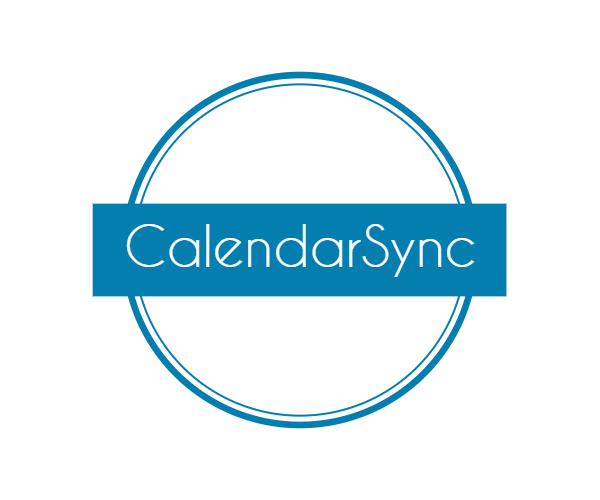
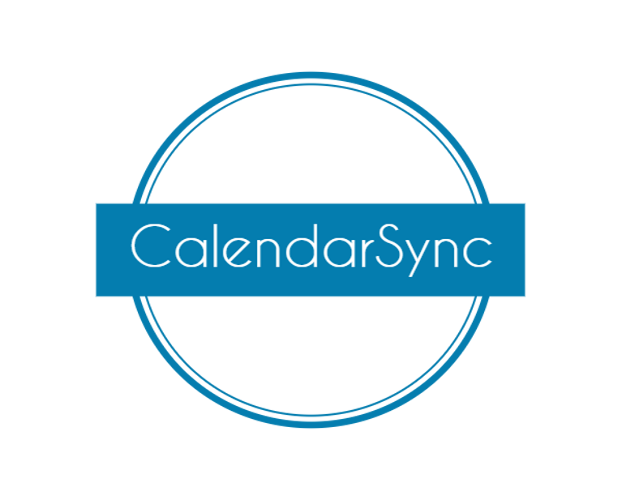
Decreasing Header Image Size

diff --git a/README.md b/README.md
@@ -1,4 +1,4 @@
-![CalendarSync Logo](https://github.com/chedster/chedster.github.io/blob/master/assets/images/calendarSync.png)
+![CalendarSync Logo](https://github.com/chedster/CalendarSync/blob/master/icon.png)
 ===================================================================================
 
 *Tired of having to constantly log into Canvas to check for assignments? Let CalendarSync synchronize your Canvas and Google calendars!*
